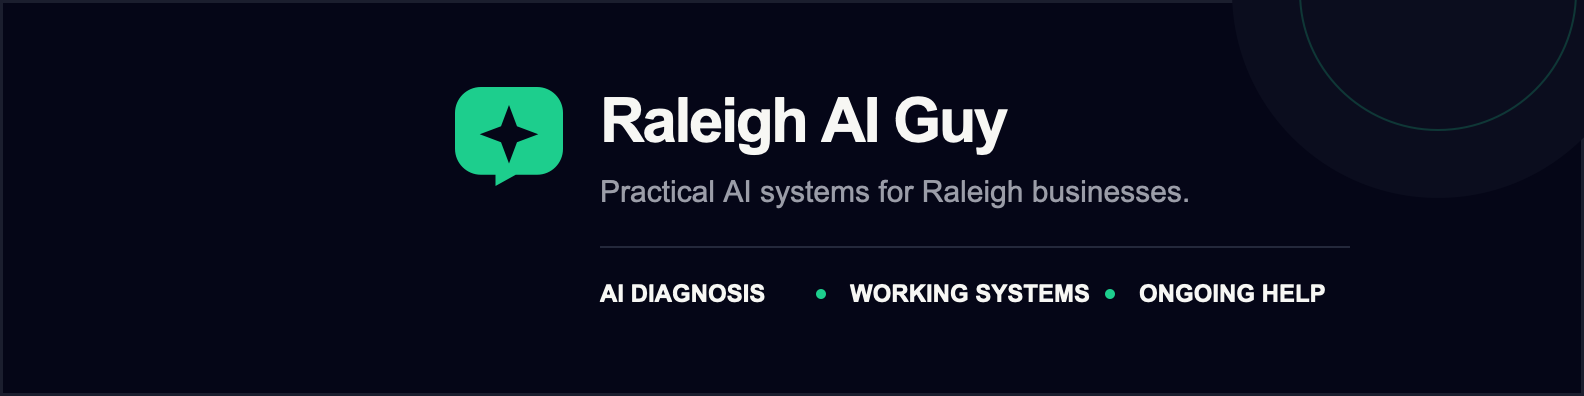
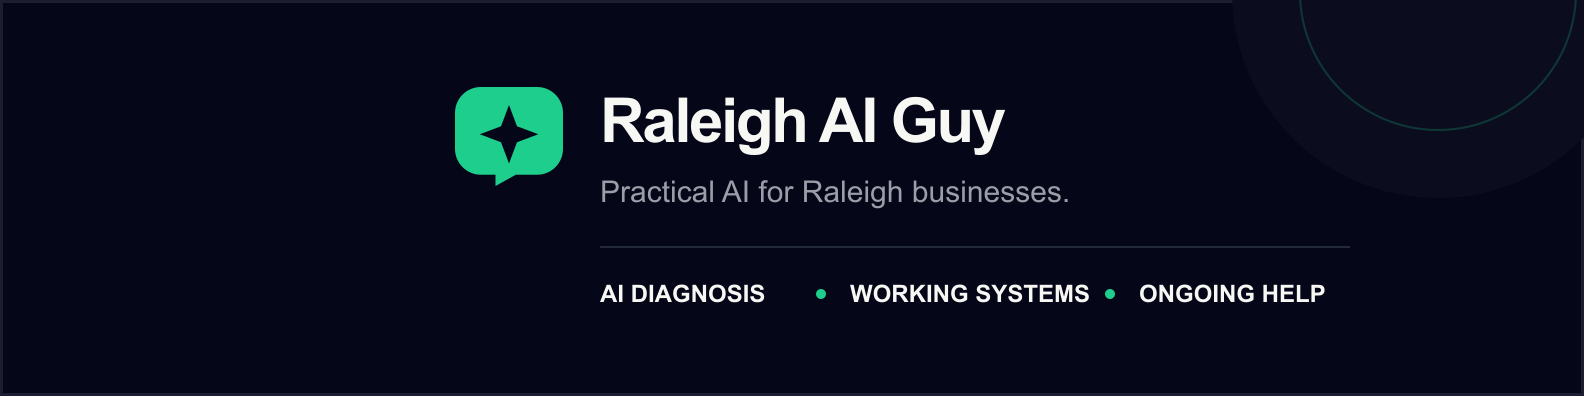
brand: switch site and email to Raleigh AI Guy

diff --git a/scripts/build_two_minute_ai_video_guide.py b/scripts/build_two_minute_ai_video_guide.py
@@ -416,7 +416,7 @@ def add_cover(document):
     set_run_font(run, size=10.5, color=INK, bold=True)
     meta2 = document.add_paragraph()
     meta2.alignment = WD_ALIGN_PARAGRAPH.CENTER
-    run = meta2.add_run("Instagram + dannysullivan.ai answer library  |  July 2026")
+    run = meta2.add_run("Instagram + raleighaiguy.com answer library  |  July 2026")
     set_run_font(run, size=9.5, color=MUTED)
 
     document.add_page_break()

diff --git a/README.md b/README.md
@@ -1,4 +1,4 @@
-# dannysullivan.ai
+# Raleigh AI Guy
 
 Personal site for Danny Sullivan, built with Astro and Tailwind CSS.
 
@@ -23,7 +23,7 @@ npm run build
 npm run preview
 ```
 
-The production site is configured for `https://dannysullivan.ai`.
+The production site is configured for `https://raleighaiguy.com`.
 
 ## Stripe Checkout
 
